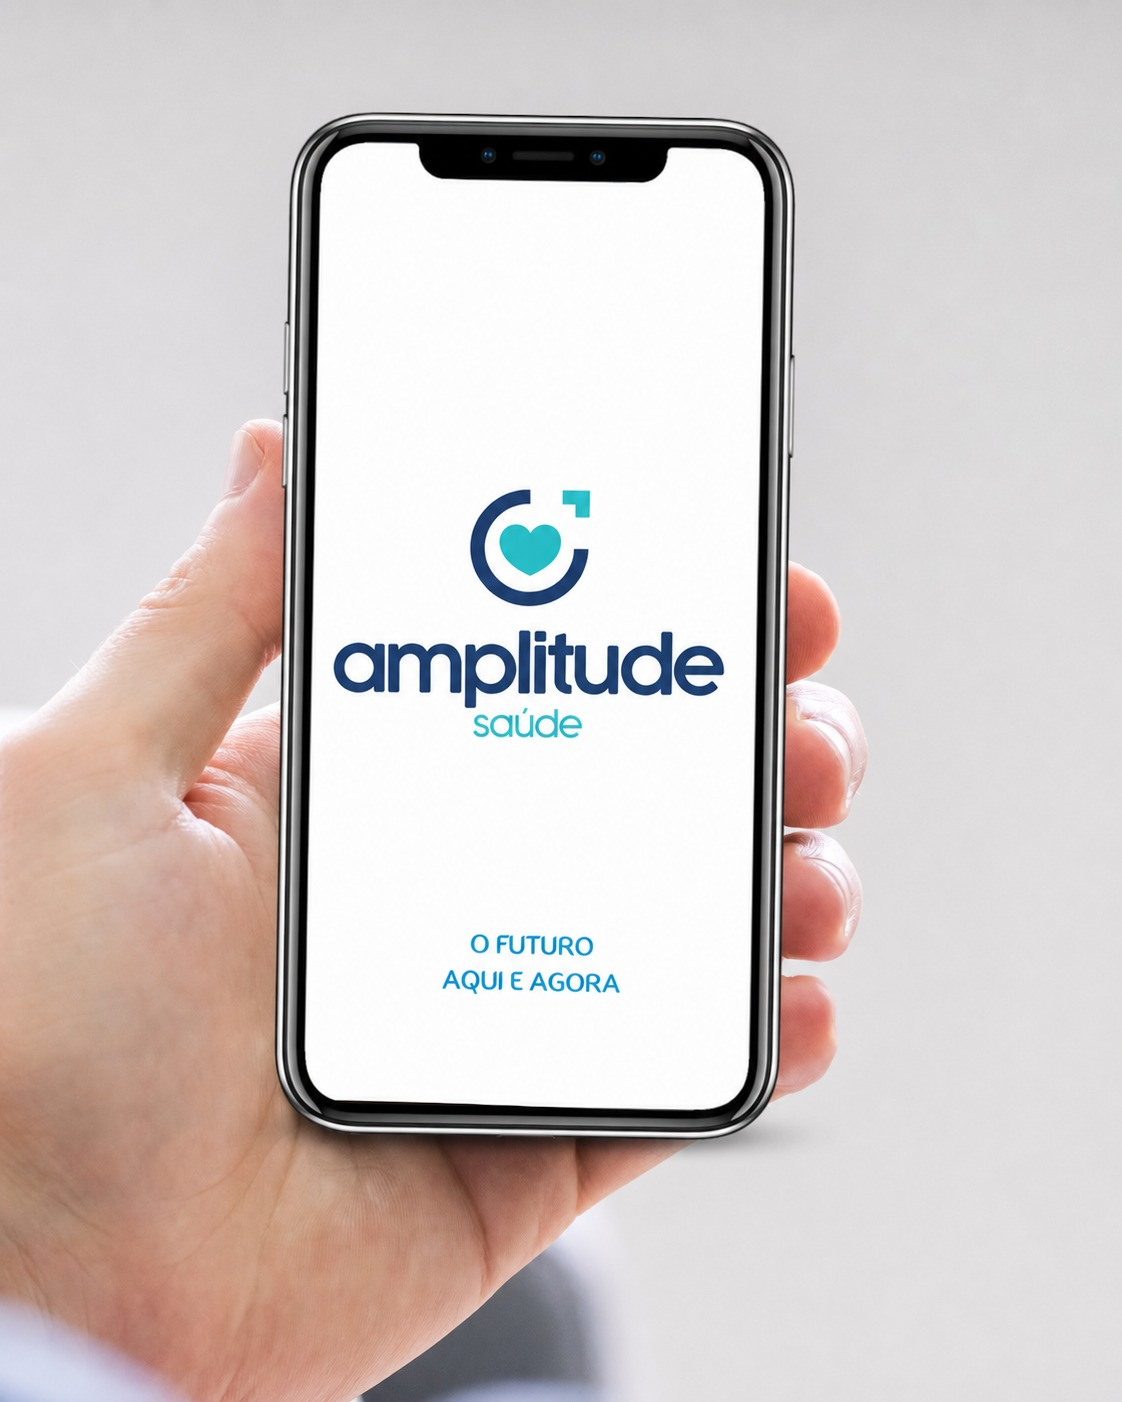
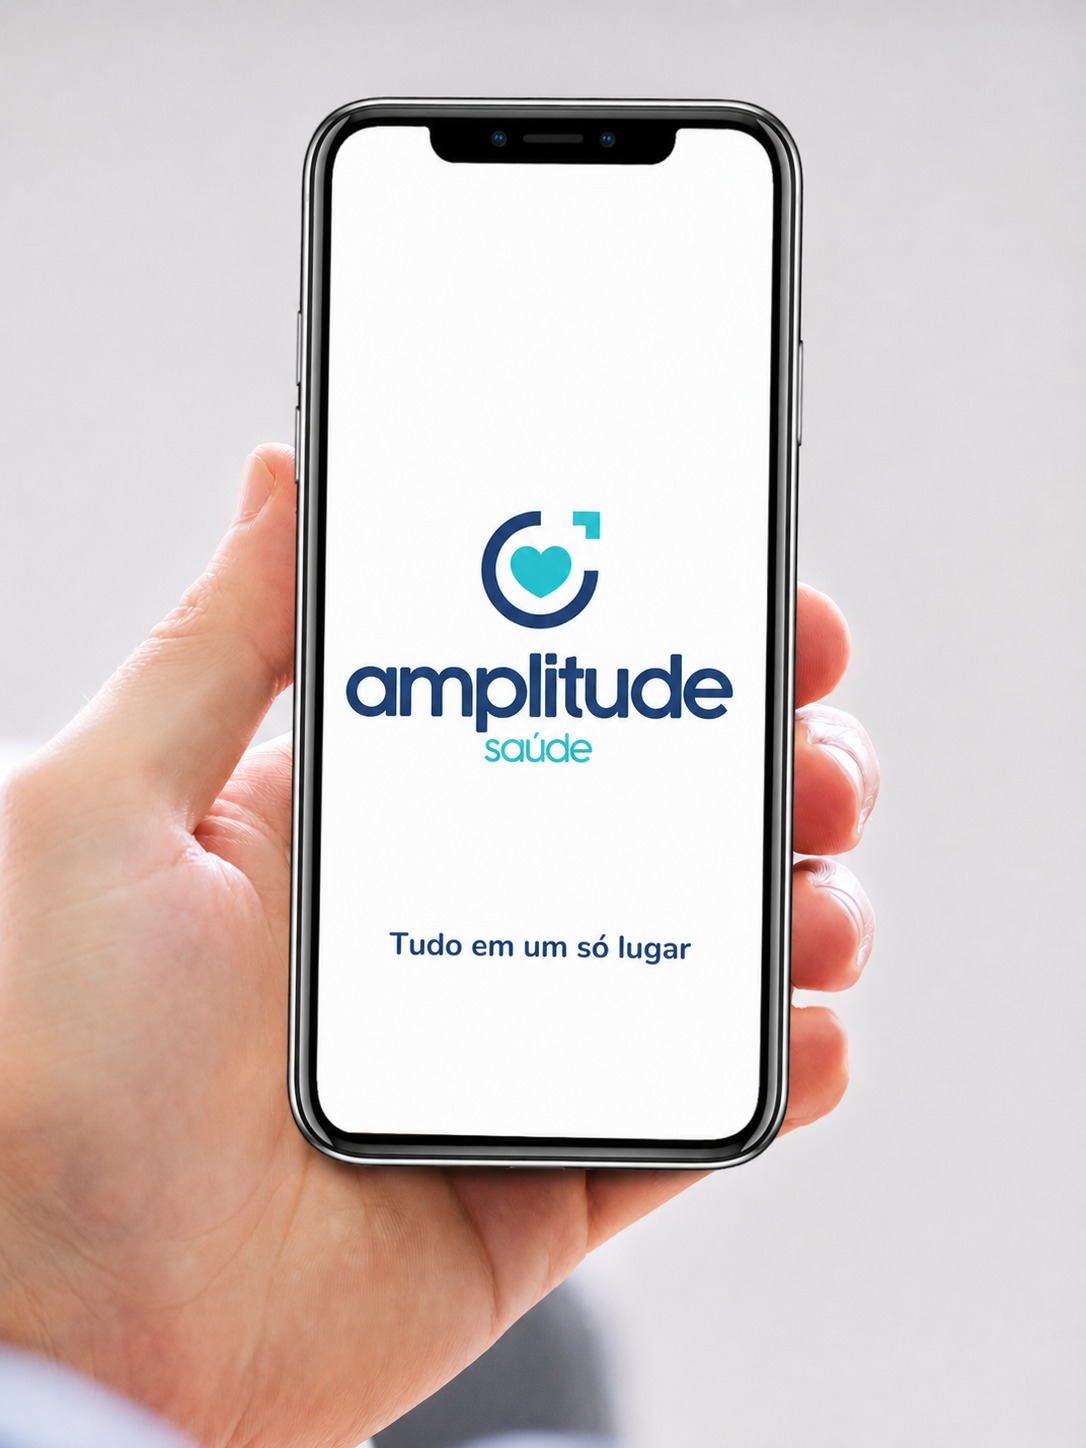
Update app mockup image, redesign why-closing finale, add download CTA

Changed region(s): [[0.0, 0.0613, 0.8204, 1.0], [0.3646, 0.6441, 0.6381, 0.7054], [0.0, 0.9201, 0.0304, 0.9508]]

diff --git a/assets/css/style.css b/assets/css/style.css
@@ -378,18 +378,18 @@ body.is-loading{overflow:hidden;}
 .why-underline{display:block;width:130px;height:4px;border-radius:4px;background:var(--gold);margin-top:26px;}
 .why-intro{max-width:640px;margin:0 auto 40px;text-align:center;color:var(--muted);font-size:.9rem;line-height:1.6;}
 .why-intro br{content:'';display:block;margin-top:8px;}
-.why-closing{max-width:640px;margin:90px auto 0;text-align:center;padding-top:60px;position:relative;}
+.why-closing{max-width:720px;margin:110px auto 0;text-align:center;padding-top:64px;position:relative;}
 .why-closing::before{content:'';position:absolute;top:0;left:50%;transform:translateX(-50%);width:64px;height:3px;border-radius:4px;background:var(--grad-teal);}
-.why-closing h3{font-size:.95rem;font-weight:700;letter-spacing:.06em;text-transform:uppercase;color:var(--teal-600);margin-bottom:20px;}
-.why-closing-brand{display:inline-flex;align-items:center;gap:20px;}
-.why-closing-brand img{width:64px;height:64px;object-fit:contain;}
-.why-closing-brand div{text-align:left;}
-.why-closing-brand strong{display:block;font-family:var(--ff-head);font-size:2.1rem;line-height:1.1;color:var(--ink);}
-.why-closing-brand span{color:var(--muted);font-size:.95rem;line-height:1.5;}
-@media(max-width:560px){
-  .why-closing-brand{flex-direction:column;text-align:center;gap:14px;}
-  .why-closing-brand div{text-align:center;}
-  .why-closing-brand strong{font-size:1.6rem;}
+.why-closing h3{font-size:.85rem;font-weight:700;letter-spacing:.14em;text-transform:uppercase;color:var(--teal-600);margin-bottom:32px;}
+.why-closing-mark{width:88px;height:88px;object-fit:contain;margin:0 auto 20px;filter:drop-shadow(0 12px 22px rgba(22,191,178,.28));}
+.why-closing-name{display:block;font-family:var(--ff-head);font-weight:700;font-size:clamp(2.4rem,5vw,3.6rem);line-height:1.05;letter-spacing:-.01em;color:var(--ink);margin-bottom:22px;}
+.why-closing-tag{color:var(--muted);font-size:1.05rem;max-width:480px;margin:0 auto;}
+.why-closing-tag span{color:var(--teal-500);margin:0 6px;}
+@media(max-width:600px){
+  .why-closing{margin-top:70px;padding-top:44px;}
+  .why-closing h3{margin-bottom:22px;}
+  .why-closing-mark{width:64px;height:64px;}
+  .why-closing-tag{font-size:.95rem;}
 }
 @media(max-width:820px){
   .why-row,.why-row.reverse{grid-template-columns:1fr;gap:28px;}
@@ -397,9 +397,6 @@ body.is-loading{overflow:hidden;}
   .why-row{margin-top:44px;}
   .why-num{font-size:1.9rem;}
   .why-intro{margin-bottom:36px;}
-  .why-closing{margin-top:56px;padding-top:36px;}
-  .why-closing-brand{flex-direction:column;text-align:center;}
-  .why-closing-brand div{text-align:center;}
 }
 
 /* ===================== APP PROMO ===================== */
@@ -411,6 +408,13 @@ body.is-loading{overflow:hidden;}
 }
 .app-promo-copy h2{margin:14px 0 20px;}
 .app-promo-copy p{color:var(--muted);margin-bottom:16px;}
+.app-promo-download{
+  display:inline-flex;align-items:center;gap:8px;color:var(--teal-600);font-weight:600;font-size:.92rem;
+  margin-top:6px;padding-bottom:20px;border-bottom:1px solid var(--line);width:100%;
+}
+.app-promo-download:hover{color:var(--teal-700,var(--teal-600));}
+.app-promo-download .material-symbols-rounded{font-size:19px;}
+@media(max-width:900px){.app-promo-download{justify-content:center;}}
 .app-promo-stores{display:flex;flex-wrap:wrap;gap:14px;margin-top:28px;}
 .store-badge{
   display:inline-flex;align-items:center;gap:12px;background:var(--navy-900);color:#fff;

diff --git a/index.html b/index.html
@@ -269,13 +269,9 @@
 
       <div class="why-closing reveal">
         <h3>10 motivos. Uma escolha.</h3>
-        <div class="why-closing-brand">
-          <img src="assets/img/brand/logo-icon.png" alt="Amplitude Saúde">
-          <div>
-            <strong>Amplitude Saúde</strong>
-            <span>De Sergipe para os sergipanos.<br>Cuidado que faz a diferença.</span>
-          </div>
-        </div>
+        <img src="assets/img/brand/logo-icon.png" class="why-closing-mark" alt="">
+        <strong class="why-closing-name">Amplitude <span class="text-teal">Saúde</span></strong>
+        <p class="why-closing-tag">De Sergipe para os sergipanos <span>·</span> Cuidado que faz a diferença.</p>
       </div>
     </div>
   </section>
@@ -292,6 +288,7 @@
         <h2>Conheça o <span class="text-teal">aplicativo</span> da Amplitude</h2>
         <p>Criado para resolver suas maiores dificuldades com plano de saúde, o app Amplitude reúne tudo num só lugar: agendamento de consultas e exames, acesso a resultados e laudos, autorizações digitais instantâneas e acompanhamento de solicitações — sem burocracia e sem longas esperas.</p>
         <p>Levamos o cuidado com você para onde você estiver, com a mesma praticidade que você já tem em outros apps do dia a dia. O futuro da saúde chegou — e já está no seu bolso.</p>
+        <a href="#" class="app-promo-download"><span class="material-symbols-rounded">download</span> Clique para baixar</a>
         <div class="app-promo-stores">
           <a href="#" class="store-badge">
             <svg class="store-badge-icon" viewBox="0 0 384 512" fill="currentColor" aria-hidden="true"><path d="M318.7 268.7c-.2-36.7 16.4-64.4 50-84.8-18.8-26.9-47.2-41.7-84.7-44.6-35.5-2.8-74.3 20.7-88.5 20.7-15 0-49.4-19.7-76.4-19.7C63.3 141 4 184.8 4 273.5c0 26.2 4.8 53.3 14.4 81.2 12.8 36.7 59 126.7 107.2 125.2 25.2-.6 43-17.9 75.8-17.9 31.8 0 48.3 17.9 76.4 17.9 48.6-.7 90.4-82.5 102.6-119.3-65.2-30.7-61.7-90-61.7-91.9zm-56.6-164.2c27.3-32.4 24.8-61.9 24-72.5-24.1 1.4-52 16.4-67.9 34.9-17.5 19.8-27.8 44.3-25.6 71.9 26.1 2 49.9-11.4 69.5-34.3z"/></svg>
